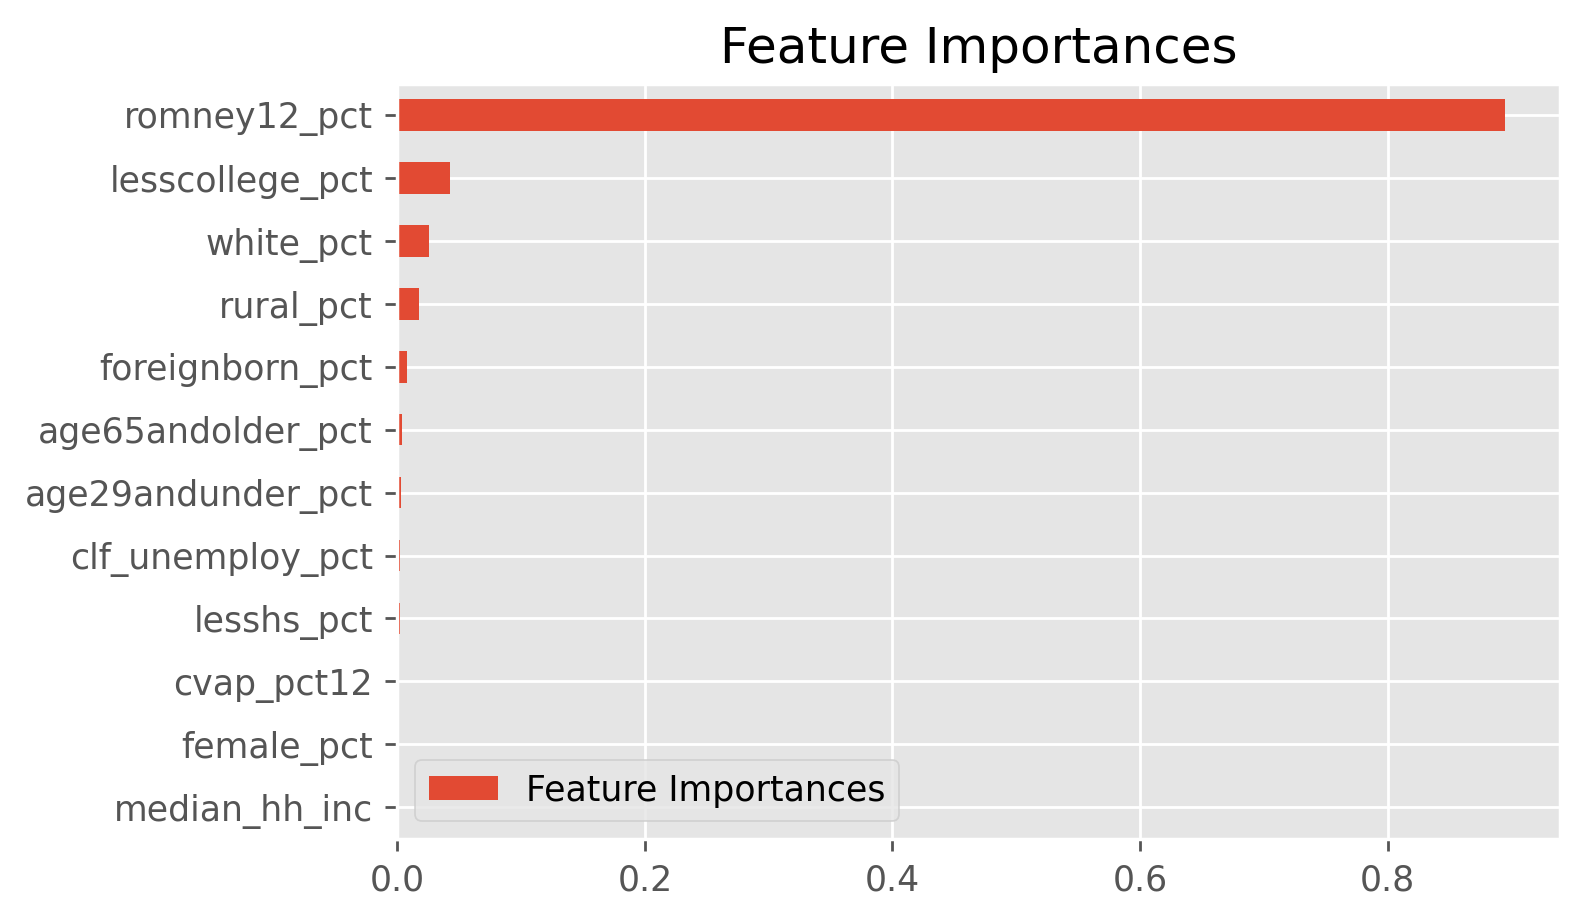
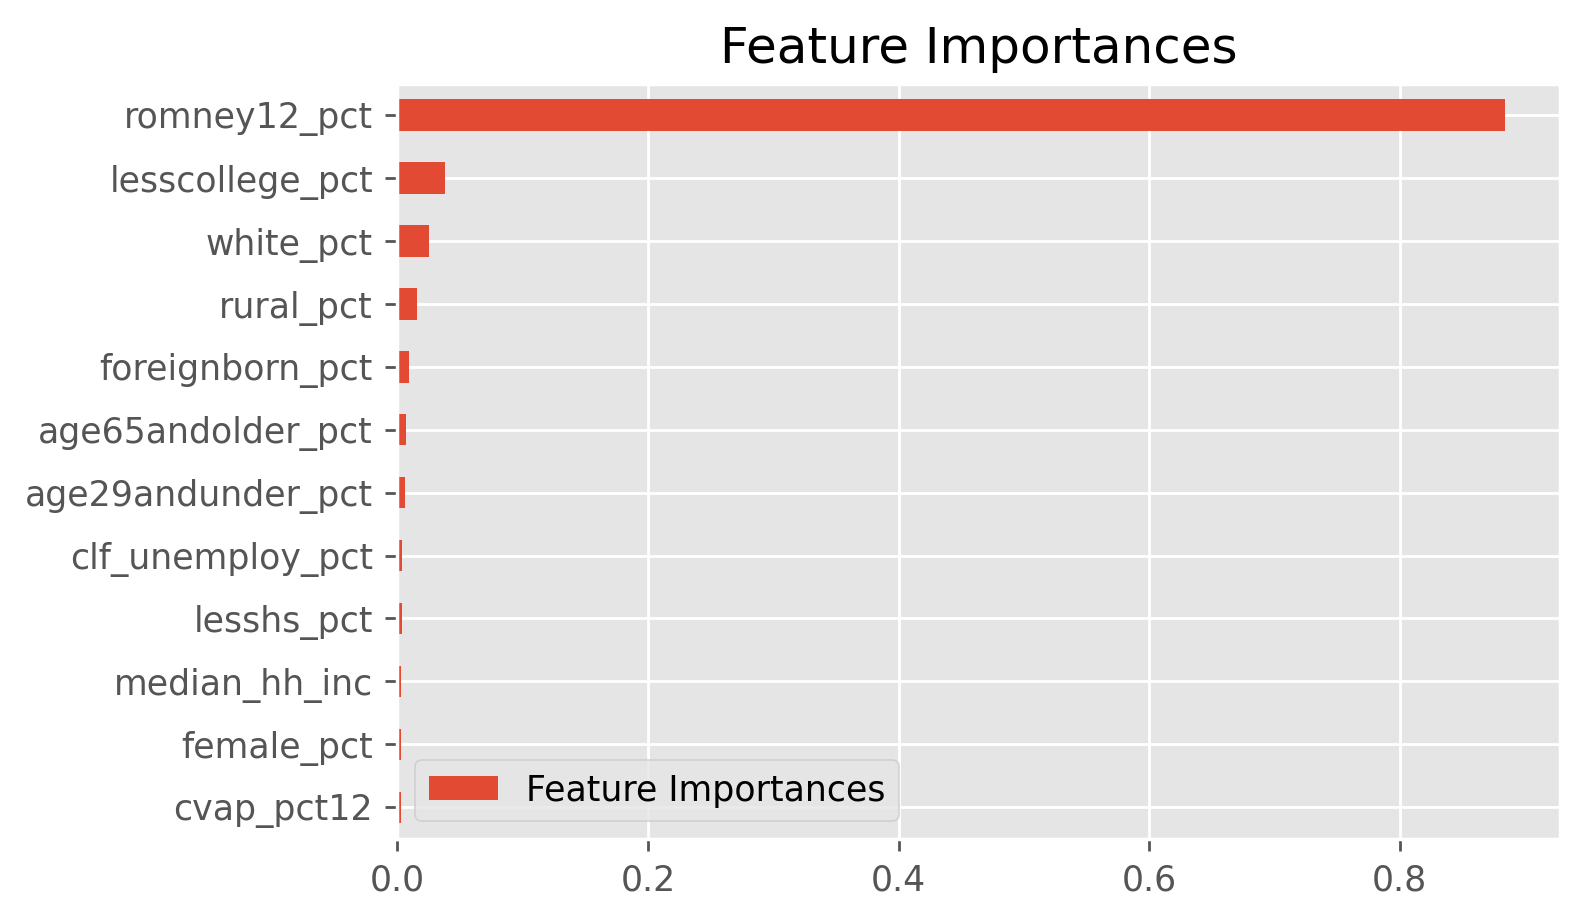
fixed typo in readme

diff --git a/README.md b/README.md
@@ -170,13 +170,13 @@ Feature Importances as found by Random Forest
     <summary>Gradient Boosting Regression</summary>
     <br>
     
-Gradient Boosting Regressor takes advantage of adding many weak learning together with the aim to minimize variance and prevent overfitting. Feature importances are found by calculating the Gini importances. This model performed roughly the same as the Random Forest. 
+Gradient Boosting Regressor takes advantage of adding many weak learners together with the aim to minimize variance and prevent overfitting. This model is built iteratively and at each states a regression tree is fit to the negative gradient of the loss function (least squares in the case of regression). This model performed roughly the same as the Random Forest. 
     
 <b>Model Performance</b><br>
 - KFold RMSE range from 2.63 - 3.80, with an average value of 3.05. 
 - KFold R2 values ranged from 0.94 - 0.97, with an average value of 0.96.  
     
-Feature Importances as found by Random Forest
+Feature Importances as found by Gradient Boosted Regression
 <img alt='importances' src='images/featureimportGB-data3.png' width='400'>
 
 </details>
